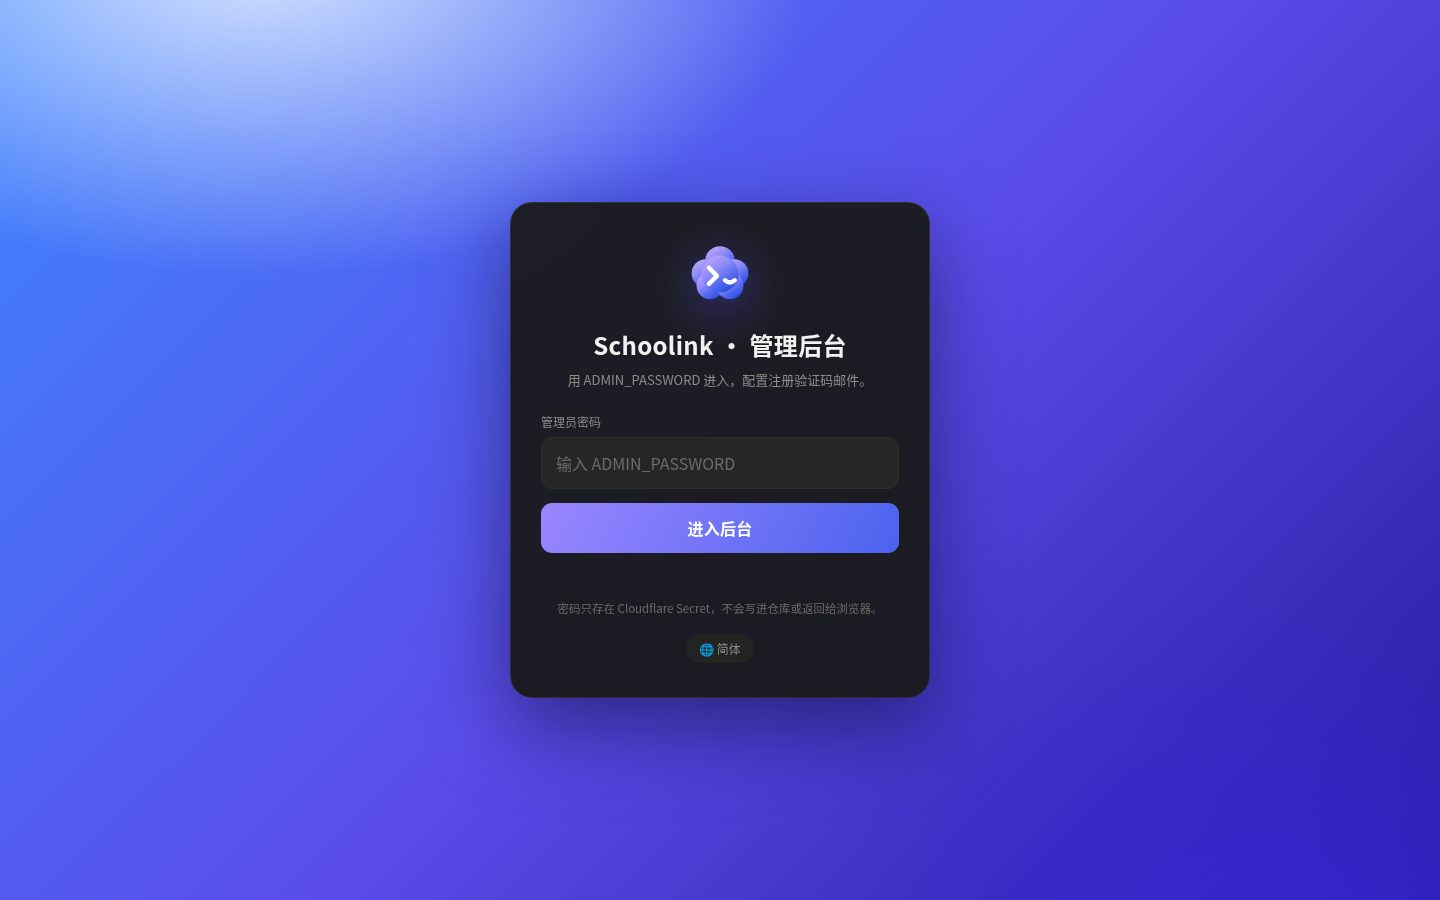
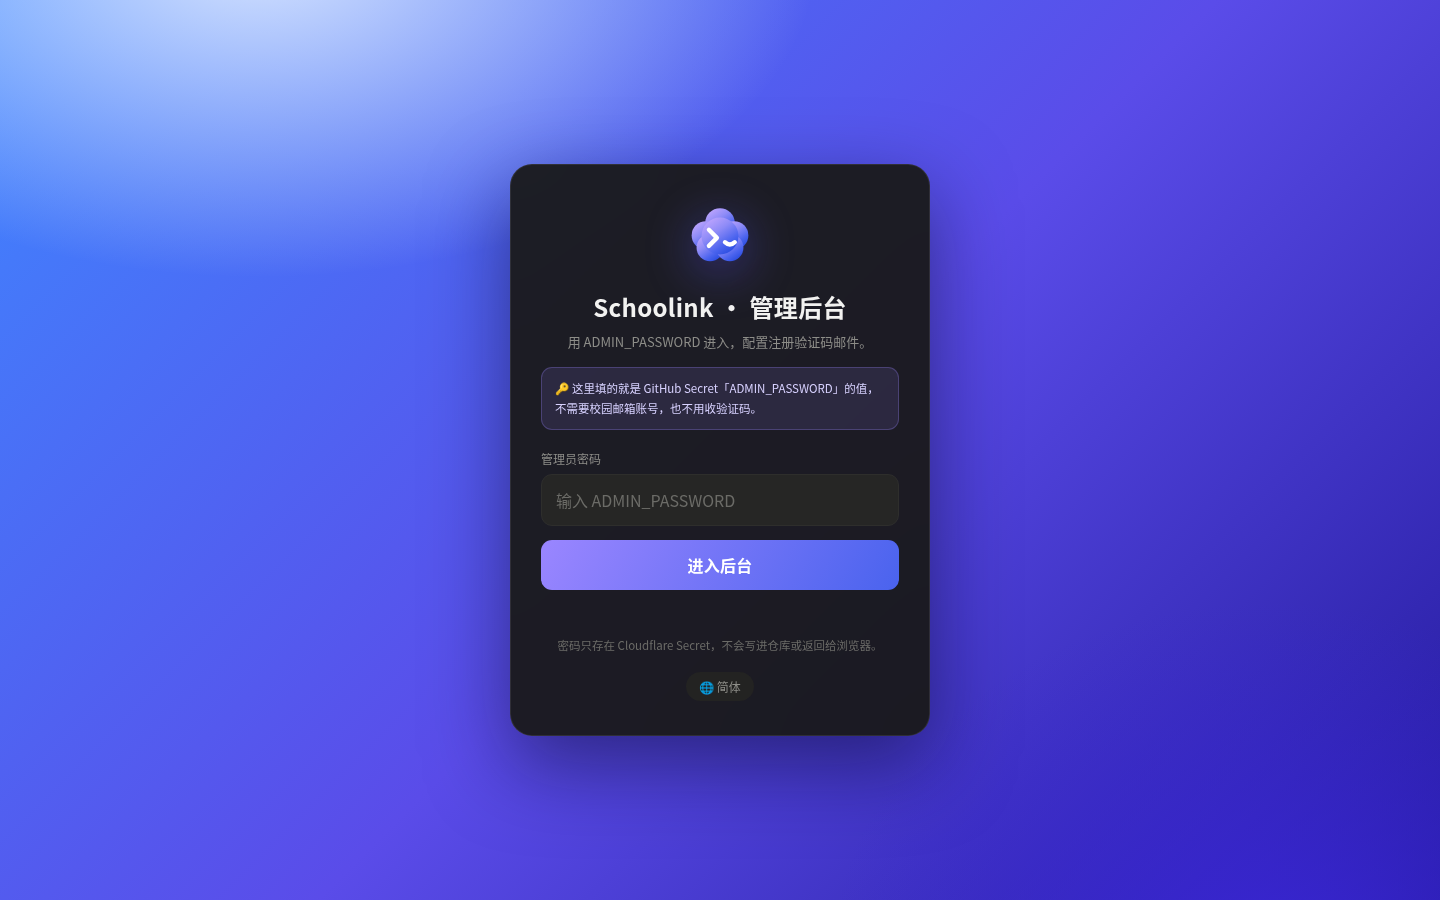
Fix /admin redirect loop and login state; require ADMIN_PASSWORD secret at deploy

Changed region(s): [[0.3438, 0.1556, 0.6562, 0.6844], [0.3438, 0.7156, 0.6562, 0.8711]]

diff --git a/public/admin.js b/public/admin.js
@@ -7,6 +7,7 @@ const LABEL = { "zh-CN": "简体", "zh-HK": "繁體", en: "EN" };
 const I18N = {
   "zh-CN": {
     console: "管理后台", tag: "ADMIN CONSOLE", loginSub: "用 ADMIN_PASSWORD 进入，配置注册验证码邮件。",
+    adminPwHint: "这里填的就是 GitHub Secret「ADMIN_PASSWORD」的值，不需要校园邮箱账号，也不用收验证码。",
     password: "管理员密码", passwordPh: "输入 ADMIN_PASSWORD", signIn: "进入后台", signOut: "退出",
     openChat: "返回聊天", wrong: "密码错误或未登录", noPw: "尚未设置 ADMIN_PASSWORD：请到 GitHub Secrets 新增后重跑 Action，本地则写进 .dev.vars。",
     pwNote: "密码只存在 Cloudflare Secret，不会写进仓库或返回给浏览器。",
@@ -28,6 +29,7 @@ const I18N = {
   },
   "zh-HK": {
     console: "管理後台", tag: "ADMIN CONSOLE", loginSub: "用 ADMIN_PASSWORD 進入，設定註冊驗證碼電郵。",
+    adminPwHint: "這裏填的就是 GitHub Secret「ADMIN_PASSWORD」的值，不需要校園電郵帳號，也不用收驗證碼。",
     password: "管理員密碼", passwordPh: "輸入 ADMIN_PASSWORD", signIn: "進入後台", signOut: "登出",
     openChat: "返回聊天", wrong: "密碼錯誤或未登入", noPw: "尚未設定 ADMIN_PASSWORD：請到 GitHub Secrets 新增後重跑 Action，本地則寫進 .dev.vars。",
     pwNote: "密碼只存在 Cloudflare Secret，不會寫進倉庫或返回給瀏覽器。",
@@ -49,6 +51,7 @@ const I18N = {
   },
   en: {
     console: "Admin console", tag: "ADMIN CONSOLE", loginSub: "Sign in with ADMIN_PASSWORD to configure sign-up codes.",
+    adminPwHint: "Enter the value of the GitHub Secret ADMIN_PASSWORD here — no campus email account or OTP needed.",
     password: "Admin password", passwordPh: "Enter ADMIN_PASSWORD", signIn: "Sign in", signOut: "Sign out",
     openChat: "Back to chat", wrong: "Wrong password or not signed in", noPw: "ADMIN_PASSWORD is not set: add it to GitHub Secrets and re-run the workflow (or .dev.vars locally).",
     pwNote: "The password lives only in a Cloudflare Secret — never in the repo, never returned to the browser.",
@@ -198,6 +201,7 @@ function renderLogin() {
     <img class="login-logo" src="/logo.svg" alt="">
     <h1>Schoolink · ${esc(t("console"))}</h1>
     <p class="sub">${esc(t("loginSub"))}</p>
+    <div class="admin-pw-hint">🔑 ${esc(t("adminPwHint"))}</div>
     ${state.publicCfg.adminPasswordSet === false ? `<div class="notice">⚠ ${esc(t("noPw"))}</div>` : ""}
     <div class="field"><label>${esc(t("password"))}</label>
       <input type="password" data-model="password" data-enter="login" value="${esc(state.form.password)}"
@@ -211,23 +215,35 @@ function renderLogin() {
   </div></div>`;
 }
 
-async function loadState() {
+async function loadState(retry = 1) {
   try {
     const r = await api("/api/admin/panel/state");
     state.config = r.config; state.stats = r.stats;
     state.authed = true; state.error = "";
     fillForm(r.config);
-  } catch {
+  } catch (e) {
+    // 刷新页面时 KV 白名单可能还没同步完，等一下重试一次
+    if (retry > 0) {
+      await new Promise((r) => setTimeout(r, 350));
+      return loadState(retry - 1);
+    }
     state.authed = false;
+    state.error = "";
   }
   render();
 }
 async function login() {
   state.error = "";
   try {
-    await post("/api/admin/panel/login", { password: state.form.password });
+    // 登录响应已带 config / stats，直接用它进场，不再二次验证 session
+    const r = await post("/api/admin/panel/login", { password: state.form.password });
     state.form.password = "";
-    await loadState();
+    state.config = r.config || {};
+    state.stats = r.stats || state.stats;
+    state.authed = true;
+    state.error = "";
+    fillForm(state.config);
+    render();
   } catch (e) { state.error = `${t("wrong")} · ${e.message}`; render(); }
 }
 async function save() {

diff --git a/src/index.js b/src/index.js
@@ -4,6 +4,7 @@ import {
   normalizeEmail, isEmailAllowed, signSession, verifySession,
   sessionCookie, clearCookie, issueOtp, consumeOtp, timingSafeEqual,
 } from "./auth.js";
+import { ADMIN_HTML } from "./admin-page.js";
 import {
   loadConfig, saveConfig, maskToken, sendMail, publicUser, getUserById,
   getUserByEmail, createUser, listUsers, isMember, listThreads, createThread,
@@ -26,10 +27,18 @@ const MAX_IMAGE = 10 * 1024 * 1024;
 export default {
   async fetch(request, env) {
     const url = new URL(request.url);
-    // /admin 是独立后台页（不依赖校园邮箱登录），由 Worker 重写到静态 admin.html
+    // /admin 独立后台页：Worker 直接回传 HTML，不交给 Assets。
+    // 若重写到 /admin.html，Assets 的 html_handling 会把它 301 回 /admin，
+    // 形成无限重新导向（ERR_TOO_MANY_REDIRECTS）。内联返回则一次 200 到底。
     if (url.pathname === "/admin" || url.pathname === "/admin/") {
-      const target = new URL("/admin.html", url);
-      return env.ASSETS.fetch(new Request(target, request));
+      return new Response(ADMIN_HTML, {
+        headers: {
+          "Content-Type": "text/html; charset=utf-8",
+          "Cache-Control": "no-store",
+          "X-Frame-Options": "DENY",
+          "Referrer-Policy": "no-referrer",
+        },
+      });
     }
     if (!url.pathname.startsWith("/api")) {
       // 静态资源 / SPA fallback 交还 Assets binding
@@ -133,7 +142,9 @@ async function route(request, env, url) {
       user.role = "admin";
     }
     const { token } = await signSession(env, user.id);
-    return json({ ok: true, user: publicUser(user) }, 200, { "Set-Cookie": sessionCookie(token) });
+    return json({ ok: true, user: publicUser(user) }, 200, {
+      "Set-Cookie": sessionCookie(token, "user", isSecureRequest(url)),
+    });
   }
 
   // 未配置 R2 自定义域时的同源图片回源（配了自定义域则浏览器直连 CDN）
@@ -173,7 +184,13 @@ async function route(request, env, url) {
     }
     await env.CACHE.delete(rateKey);
     const { token } = await signSession(env, "admin-panel", "admin");
-    return json({ ok: true }, 200, { "Set-Cookie": sessionCookie(token, "admin") });
+    // 登录响应直接带上 state：前端不必立刻再发一次带 session 的请求。
+    // KV 是最终一致，刚写入的 ADMINSESSION 可能还读不到，二次验证会被误判成「未登入」。
+    return json({
+      ok: true,
+      config: adminConfigView(cfg, env),
+      stats: await adminStats(env),
+    }, 200, { "Set-Cookie": sessionCookie(token, "admin", isSecureRequest(url)) });
   }
 
   if (pathname.startsWith("/api/admin/panel/")) {
@@ -321,6 +338,11 @@ async function readJson(request) {
   } catch {
     return {};
   }
+}
+
+/** 本地 wrangler dev 是 http，不能下发 Secure Cookie，否则浏览器不保存 */
+function isSecureRequest(url) {
+  return url.protocol === "https:" || ["localhost", "127.0.0.1"].includes(url.hostname);
 }
 
 /** /admin 后台会话 或 已登录的 admin 账号，两者皆可管理配置 */

diff --git a/src/admin-page.js b/src/admin-page.js
@@ -1,0 +1,30 @@
+/**
+ * /admin 页面由 Worker 直接回传，不再交给 ASSETS 重写。
+ *
+ * 原因：Workers Static Assets 默认 html_handling 会把 /admin.html 301 到 /admin；
+ * 而 /admin 又被 Worker 重写回 /admin.html —— 两者互跳，浏览器报
+ * ERR_TOO_MANY_REDIRECTS（「太多重新導向」）。内联返回后 /admin 与 /admin/
+ * 都是一次 200，零重定向。
+ *
+ * 这里只放骨架，样式与逻辑仍由静态资源 /admin.css、/admin.js 提供。
+ * public/admin.html 保留同内容作为备用直链参考（Worker 不使用它）。
+ */
+export const ADMIN_HTML = `<!DOCTYPE html>
+<html lang="zh-CN">
+<head>
+  <meta charset="UTF-8" />
+  <meta name="viewport" content="width=device-width, initial-scale=1, viewport-fit=cover" />
+  <meta name="theme-color" content="#161615" />
+  <meta name="robots" content="noindex, nofollow" />
+  <title>Schoolink · Admin Console</title>
+  <link rel="icon" type="image/svg+xml" href="/favicon.svg" />
+  <link rel="stylesheet" href="/style.css" />
+  <link rel="stylesheet" href="/admin.css" />
+</head>
+<body class="admin-page">
+  <div id="admin-root"></div>
+  <div id="toast" role="status" aria-live="polite"></div>
+  <script type="module" src="/admin.js"></script>
+</body>
+</html>
+`;

diff --git a/public/admin.css b/public/admin.css
@@ -58,7 +58,9 @@
     radial-gradient(760px 640px at 88% 108%, rgba(58,38,214,.95) 0%, rgba(58,38,214,0) 58%),
     linear-gradient(135deg,#3f86ff 0%,#5a4ce9 52%,#241a9e 100%)}
 .admin-login .login-card{max-width:420px}
-.admin-login .sub{margin-bottom:22px}
+.admin-login .sub{margin-bottom:14px}
+.admin-pw-hint{font-size:11.5px;line-height:1.7;color:#d8d2ff;background:rgba(154,134,255,.13);
+  border:1px solid rgba(154,134,255,.28);border-radius:11px;padding:11px 13px;margin-bottom:20px}
 .admin-login .foot-note{text-align:center;font-size:11.5px;color:var(--muted2);margin-top:18px;line-height:1.7}
 
 @media (max-width:820px){

diff --git a/src/auth.js b/src/auth.js
@@ -86,9 +86,9 @@ export async function verifySession(request, env, kind = "user") {
   return { uid: data.uid, jti: data.jti };
 }
 
-export function sessionCookie(token, kind = "user") {
+export function sessionCookie(token, kind = "user", secure = true) {
   const meta = SESSION_META[kind] || SESSION_META.user;
-  return `${meta.cookie}=${encodeURIComponent(token)}; HttpOnly; Secure; SameSite=Lax; Path=/; Max-Age=${meta.ttl}`;
+  return `${meta.cookie}=${encodeURIComponent(token)}; HttpOnly;${secure ? " Secure;" : ""} SameSite=Lax; Path=/; Max-Age=${meta.ttl}`;
 }
 
 export function clearCookie(kind = "user") {
